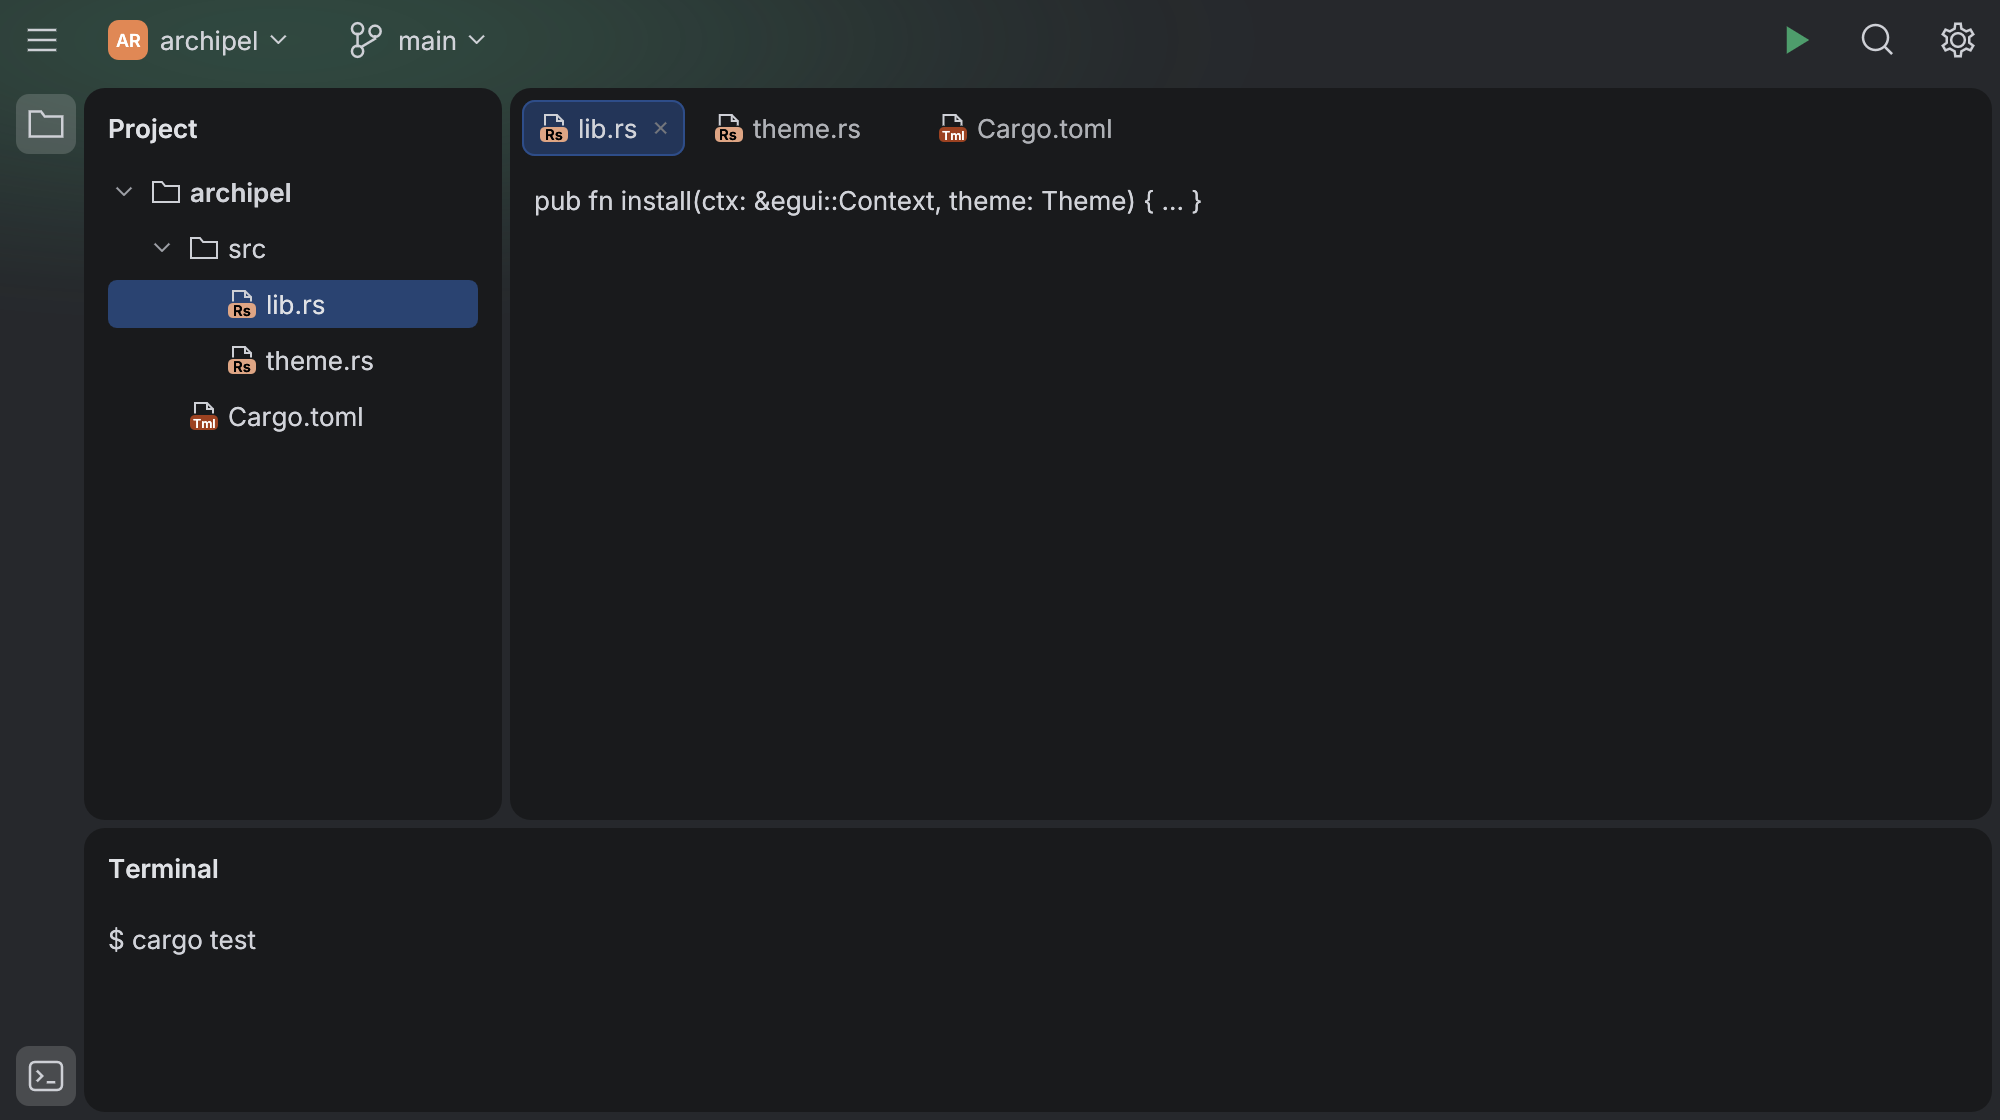
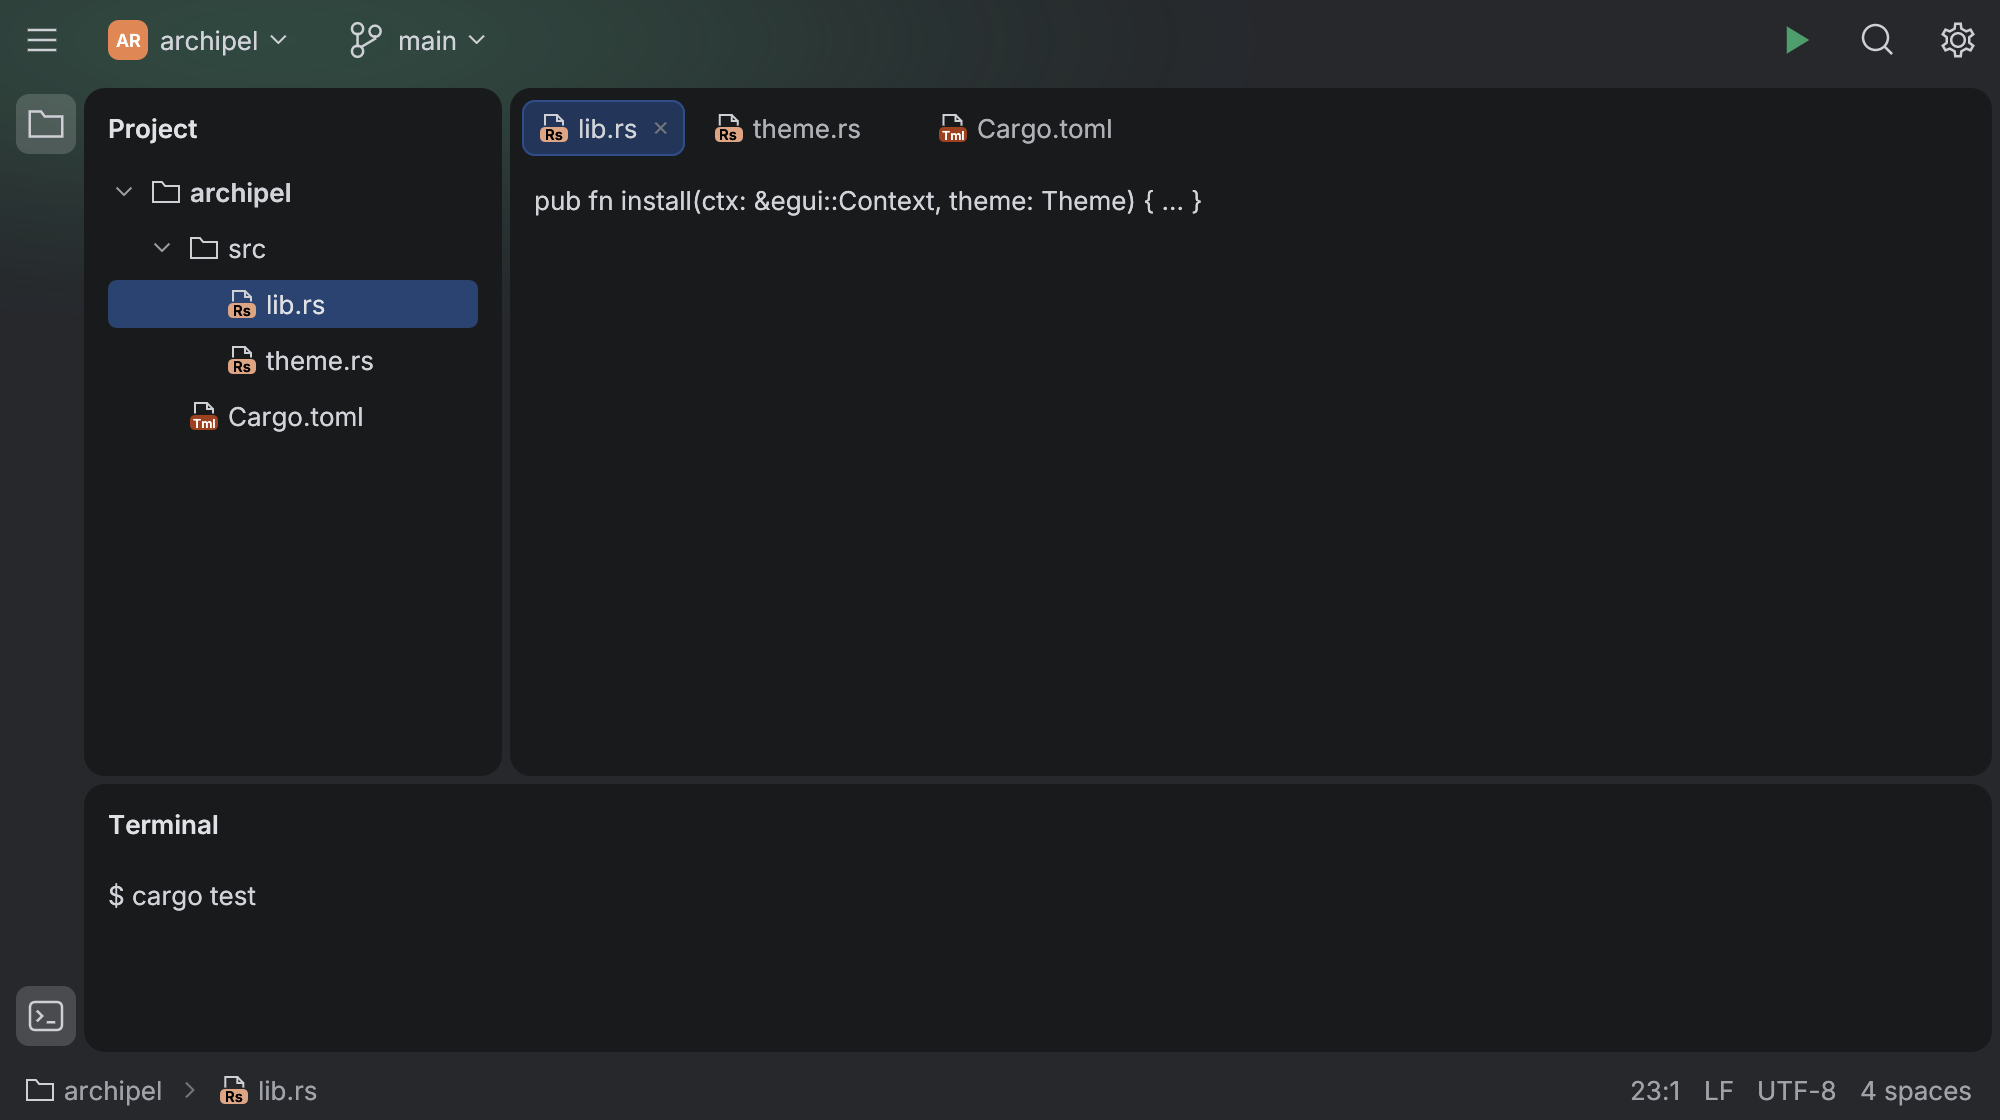
feat(status): Android Studio status bar, breadcrumbs and stripe tooltips
Measured on Android Studio:

- Status bar items are 21 pt hover pills with dimmed text that comes to full
  strength under the pointer; Workbench's status bar is 30 pt, 8 pt from the
  window edge.
- New Breadcrumbs: the navigation path at the status bar's left (also a
  settings page's location).
- Tooltip::immediate: stripe buttons name themselves without the usual delay.

Claude-Session: https://claude.ai/code/session_01CFSJRhkJs2RrB2frFQVn3u

diff --git a/crates/archipel-kit/src/components/status_bar.rs b/crates/archipel-kit/src/components/status_bar.rs
@@ -117,8 +117,7 @@ impl Widget for StatusBarItem<'_> {
         } else {
             Sense::hover()
         };
-        let (rect, response) =
-            ui.allocate_exact_size(vec2(width, size::CONTROL_HEIGHT_SMALL), sense);
+        let (rect, response) = ui.allocate_exact_size(vec2(width, size::STATUS_ITEM_HEIGHT), sense);
         crate::cursor::on_hover_action(&response);
         response.widget_info(|| WidgetInfo::labeled(WidgetType::Button, self.enabled, &self.text));
         if ui.is_rect_visible(rect) {
@@ -151,7 +150,17 @@ impl Widget for StatusBarItem<'_> {
             } else {
                 text
             };
-            common::text_left(painter, rect, x, galley, state.text(self.tone, &colors));
+            // As in Android Studio: dimmed at rest, full strength under the pointer.
+            let color = if self.tone == Tone::Default && state.enabled {
+                if state.hovered || state.pressed || state.focused {
+                    colors.text
+                } else {
+                    colors.text_secondary
+                }
+            } else {
+                state.text(self.tone, &colors)
+            };
+            common::text_left(painter, rect, x, galley, color);
             if self.chevron {
                 let chevron_rect = Rect::from_min_size(
                     pos2(
@@ -172,5 +181,105 @@ impl Widget for StatusBarItem<'_> {
             Tooltip::new(self.text.clone()).show_for(&response);
         }
         self.behaviours.attach(ui, response)
+    }
+}
+
+/// A path of places, like Android Studio's navigation path at the left of the status bar
+/// (`project › src › main.rs`) or a settings page's location. Each crumb is a flat button
+/// with an optional icon; dimmed chevrons separate them. Text is dimmed at rest and full
+/// strength under the pointer. Returns the index of the crumb clicked this frame.
+///
+/// ```
+/// # egui::__run_test_ui(|ui| {
+/// use archipel_kit::{Glyph, Icon, components::Breadcrumbs};
+///
+/// let clicked = Breadcrumbs::new()
+///     .crumb("archipel", Some(Glyph::Folder.into()))
+///     .crumb("main.rs", Some(Icon::for_file("main.rs")))
+///     .show(ui);
+/// # let _ = clicked;
+/// # });
+/// ```
+#[must_use = "show it with `.show(ui)`"]
+#[derive(Default)]
+pub struct Breadcrumbs {
+    crumbs: Vec<(String, Option<Icon>)>,
+}
+
+impl Breadcrumbs {
+    /// An empty path.
+    pub fn new() -> Self {
+        Self::default()
+    }
+
+    /// Appends a crumb reading `label`, with an optional icon.
+    pub fn crumb(mut self, label: impl Into<String>, icon: Option<Icon>) -> Self {
+        self.crumbs.push((label.into(), icon));
+        self
+    }
+
+    /// Draws the path in a row, [`size::STATUS_ITEM_HEIGHT`] high.
+    pub fn show(self, ui: &mut Ui) -> Option<usize> {
+        let colors = Theme::colors(ui.ctx());
+        let mut clicked = None;
+        ui.horizontal(|ui| {
+            ui.spacing_mut().item_spacing.x = size::BREADCRUMB_GAP;
+            let count = self.crumbs.len();
+            for (index, (label, icon)) in self.crumbs.iter().enumerate() {
+                let galley = common::galley(ui, label.as_str(), typography::body(typography::BODY));
+                let icon_width = if icon.is_some() {
+                    size::ICON + size::ICON_TEXT_GAP
+                } else {
+                    0.0
+                };
+                let width = 2.0 * size::BREADCRUMB_PADDING + icon_width + galley.size().x;
+                let (rect, response) =
+                    ui.allocate_exact_size(vec2(width, size::STATUS_ITEM_HEIGHT), Sense::click());
+                crate::cursor::on_hover_action(&response);
+                response.widget_info(|| WidgetInfo::labeled(WidgetType::Button, true, label));
+                if response.clicked() {
+                    clicked = Some(index);
+                }
+                let state = State::of(&response);
+                if ui.is_rect_visible(rect) {
+                    let painter = ui.painter();
+                    let fill = state.flat_fill(&colors);
+                    if fill != egui::Color32::TRANSPARENT {
+                        painter.rect_filled(rect, CornerRadius::same(radius::CONTROL), fill);
+                    }
+                    if response.has_focus() {
+                        common::focus_ring(painter, rect, radius::CONTROL, &colors);
+                    }
+                    let mut x = rect.left() + size::BREADCRUMB_PADDING;
+                    if let Some(icon) = *icon {
+                        let icon_rect = Rect::from_min_size(
+                            pos2(x, rect.center().y - size::ICON / 2.0),
+                            vec2(size::ICON, size::ICON),
+                        );
+                        icons::paint(painter, icon_rect, icon, state.icon(Tone::Icon, &colors));
+                        x += icon_width;
+                    }
+                    let color = if state.hovered || state.pressed || state.focused {
+                        colors.text
+                    } else {
+                        colors.text_secondary
+                    };
+                    common::text_left(painter, rect, x, galley, color);
+                }
+                if index + 1 < count {
+                    let (chevron, _) = ui.allocate_exact_size(
+                        vec2(size::ICON, size::STATUS_ITEM_HEIGHT),
+                        Sense::hover(),
+                    );
+                    icons::paint(
+                        ui.painter(),
+                        Rect::from_center_size(chevron.center(), vec2(size::ICON, size::ICON)),
+                        Glyph::ChevronRight,
+                        colors.text_placeholder,
+                    );
+                }
+            }
+        });
+        clicked
     }
 }

diff --git a/crates/archipel-kit/tests/workbench.rs b/crates/archipel-kit/tests/workbench.rs
@@ -173,7 +173,9 @@ fn stripe_buttons_open_and_close_tool_windows() {
 /// Islands UI: toolbar with project widget and project color, stripes, a project tree and an
 /// editor with tabs.
 fn ide(theme: Theme, gpu: bool) -> Harness<'static, WorkbenchState> {
-    use archipel_kit::components::{Avatar, IconButton, Tab, TabBar, ToolbarButton, WindowChrome};
+    use archipel_kit::components::{
+        Avatar, Breadcrumbs, IconButton, StatusBarItem, Tab, TabBar, ToolbarButton, WindowChrome,
+    };
     use archipel_kit::parts::Slot;
     let mut installed = false;
     let builder = Harness::builder().with_size(egui::vec2(1000.0, 560.0));
@@ -252,6 +254,18 @@ fn ide(theme: Theme, gpu: bool) -> Harness<'static, WorkbenchState> {
                 .padded(WorkbenchRegion::Bottom, true)
                 .icon(WorkbenchRegion::Bottom, Glyph::Terminal)
                 .center_padded(false)
+                .status(|ui| {
+                    let _ = Breadcrumbs::new()
+                        .crumb("archipel", Some(Glyph::Folder.into()))
+                        .crumb("lib.rs", Some(archipel_kit::Icon::for_file("lib.rs")))
+                        .show(ui);
+                    ui.with_layout(egui::Layout::right_to_left(egui::Align::Center), |ui| {
+                        ui.add(StatusBarItem::new("4 spaces"));
+                        ui.add(StatusBarItem::new("UTF-8"));
+                        ui.add(StatusBarItem::new("LF"));
+                        ui.add(StatusBarItem::new("23:1"));
+                    });
+                })
                 .show(ctx, |ui| {
                     ui.horizontal(|ui| {
                         ui.add_space(6.0);
@@ -287,4 +301,34 @@ fn ide_window_passes_both_theme_audits_and_snapshot() {
         ));
     }
     results.unwrap();
+}
+
+#[test]
+fn stripe_tooltips_show_at_once() {
+    let count = |h: &Harness<'_, WorkbenchState>| {
+        h.output()
+            .shapes
+            .iter()
+            .filter(|c| match &c.shape {
+                egui::Shape::Text(t) => t.galley.text() == "Messages",
+                _ => false,
+            })
+            .count()
+    };
+    let mut h = harness(Theme::dark(), 920.0, true, false);
+    let before = count(&h);
+    let button = h
+        .get_by_role_and_label(Role::Button, "Messages")
+        .rect()
+        .center();
+    h.hover_at(button);
+    // Two frames, far less than the usual tooltip delay: Android Studio's stripes name
+    // their buttons at once.
+    h.step();
+    h.step();
+    assert_eq!(
+        count(&h),
+        before + 1,
+        "the tooltip shows next to the panel title"
+    );
 }

diff --git a/crates/archipel-kit/src/components/overlay.rs b/crates/archipel-kit/src/components/overlay.rs
@@ -27,6 +27,7 @@ pub struct Tooltip {
     shortcut: Option<String>,
     hint: Option<String>,
     align: Option<egui::RectAlign>,
+    immediate: bool,
 }
 
 impl Tooltip {
@@ -37,7 +38,16 @@ impl Tooltip {
             shortcut: None,
             hint: None,
             align: None,
+            immediate: false,
         }
+    }
+
+    /// Shows the tooltip as soon as the widget is hovered, without the usual delay (about
+    /// half a second, as in Android Studio). Android Studio's tool window stripe buttons
+    /// name themselves at once.
+    pub fn immediate(mut self, immediate: bool) -> Self {
+        self.immediate = immediate;
+        self
     }
 
     /// Where the tooltip goes relative to its widget (default: below it). Tool window
@@ -98,7 +108,12 @@ impl Tooltip {
 
     /// Shows the tooltip for `response` when it is hovered long enough.
     pub fn show_for(&self, response: &Response) {
-        let mut tooltip = if response.enabled() {
+        let mut tooltip = if self.immediate {
+            let mut tooltip = egui::Tooltip::for_widget(response);
+            let dragging = response.ctx.dragged_id().is_some();
+            tooltip.popup = tooltip.popup.open(response.hovered() && !dragging);
+            tooltip
+        } else if response.enabled() {
             egui::Tooltip::for_enabled(response)
         } else {
             egui::Tooltip::for_disabled(response)

diff --git a/crates/archipel-kit/src/components/workbench.rs b/crates/archipel-kit/src/components/workbench.rs
@@ -194,11 +194,23 @@ impl<'a> Workbench<'a> {
         // The glow continues from the toolbar: anchor it to the window, not the islands.
         self.glow_anchor = Some(ctx.input(|i| i.viewport_rect()));
         if let Some(content) = self.status.take() {
+            // Android Studio's status bar: 30 pt on the frame, items 21 pt high.
             egui::TopBottomPanel::bottom(self.id.with("status"))
                 .show_separator_line(false)
-                .frame(crate::parts::Surface::Chrome.frame(ctx))
+                .exact_height(tokens::size::STATUS_BAR_HEIGHT)
+                .frame(
+                    egui::Frame::new()
+                        .fill(Theme::colors(ctx).frame)
+                        .inner_margin(egui::Margin::symmetric(
+                            tokens::size::STATUS_BAR_INSET as i8,
+                            0,
+                        )),
+                )
                 .show(ctx, |ui| {
-                    ui.horizontal(content);
+                    ui.horizontal_centered(|ui| {
+                        ui.spacing_mut().item_spacing.x = 0.0;
+                        content(ui);
+                    });
                 });
         }
         egui::CentralPanel::default()

diff --git a/crates/archipel-kit/src/tokens.rs b/crates/archipel-kit/src/tokens.rs
@@ -55,6 +55,16 @@ pub mod size {
     pub const SUBMENU_WIDTH: f32 = 200.0;
     /// Space inside a status bar item at each end.
     pub const STATUS_ITEM_PADDING: f32 = 6.0;
+    /// Height of a status bar item's hover pill (21 pt in Android Studio).
+    pub const STATUS_ITEM_HEIGHT: f32 = 21.0;
+    /// Space inside a breadcrumb at each end.
+    pub const BREADCRUMB_PADDING: f32 = 4.0;
+    /// Space between a breadcrumb and the chevron after it.
+    pub const BREADCRUMB_GAP: f32 = 2.0;
+    /// Height of the status bar on the window frame below the islands.
+    pub const STATUS_BAR_HEIGHT: f32 = 30.0;
+    /// Space between the window's left edge and the status bar's first item.
+    pub const STATUS_BAR_INSET: f32 = 8.0;
     /// Gap between a popup and what it is attached to (its own padding is
     /// [`popup::PADDING`](super::popup::PADDING)).
     pub const POPUP_PADDING: f32 = 4.0;

diff --git a/crates/archipel-kit/src/components/stripe.rs b/crates/archipel-kit/src/components/stripe.rs
@@ -151,7 +151,10 @@ impl ToolStripe {
             let icon = Rect::from_center_size(center, vec2(stripe::ICON, stripe::ICON));
             icons::paint(painter, icon, button.icon, Tone::Icon.color(&colors));
         }
-        let mut tooltip = Tooltip::new(button.label.clone()).align(egui::RectAlign::RIGHT);
+        // Stripe buttons name themselves at once, beside the button, as in Android Studio.
+        let mut tooltip = Tooltip::new(button.label.clone())
+            .align(egui::RectAlign::RIGHT)
+            .immediate(true);
         if let Some(shortcut) = &button.shortcut {
             tooltip = tooltip.shortcut(shortcut.clone());
         }

diff --git a/crates/archipel-kit/src/components/mod.rs b/crates/archipel-kit/src/components/mod.rs
@@ -58,7 +58,7 @@ pub use overlay::{Dialog, DialogAction, MenuHeader, MenuSeparator, Tooltip, Tool
 pub use progress::{ProgressBar, Spinner};
 pub use segmented::{SegmentedControl, Tab, TabBar, TabBarResponse};
 pub use split_pane::{Orientation, Side, SplitPane, SplitResponse};
-pub use status_bar::StatusBarItem;
+pub use status_bar::{Breadcrumbs, StatusBarItem};
 pub use stripe::{StripeButton, ToolStripe};
 pub use text_field::{TextField, TextFieldOutput};
 pub use toolbar::ToolbarButton;

diff --git a/docs/components/status-bar-item.md b/docs/components/status-bar-item.md
@@ -66,3 +66,26 @@ A `Button` named by its text, reporting disabled.
 
 Source: [`components/status_bar.rs`](../../crates/archipel-kit/src/components/status_bar.rs) ·
 Tests: [`tests/status_bar.rs`](../../crates/archipel-kit/tests/status_bar.rs)
+
+## Status bar and breadcrumbs (measured on Android Studio)
+
+The status bar is 30 pt on the window frame below the islands (`Workbench::status`), 8 pt from
+the window's left edge. Items are 21 pt hover pills; their text is dimmed (`text_secondary`)
+at rest and full strength under the pointer.
+
+`Breadcrumbs` is the navigation path at its left (`project › src › main.rs`): each crumb is a
+flat button (4 pt padding, optional icon, text), dimmed chevrons separate them, and `show`
+returns the index of the crumb clicked. It also serves as a settings page's location.
+
+```rust
+# egui::__run_test_ui(|ui| {
+use archipel_kit::{Glyph, Icon, components::{Breadcrumbs, StatusBarItem}};
+
+let clicked = Breadcrumbs::new()
+    .crumb("archipel", Some(Glyph::Folder.into()))
+    .crumb("main.rs", Some(Icon::for_file("main.rs")))
+    .show(ui);
+ui.add(StatusBarItem::new("UTF-8"));
+# let _ = clicked;
+# });
+```

diff --git a/docs/component-map.md b/docs/component-map.md
@@ -101,6 +101,15 @@ pointer and keyboard and recording the screen at 60 fps. The kit reproduces each
 | Disabled borders | `#33353B` / light `#DDDFE4` | `Colors::border_disabled` |
 | Fields and combo boxes | 28 pt, `#40434A` / `#D1D3D9` border; combo fill `#26282C` / white | `TextField`, `Dropdown` |
 
+### Tooltips and status bar
+
+| Situation | Android Studio | Kit |
+|---|---|---|
+| Tooltip delay | About 0.5 s on toolbar buttons; stripe buttons name themselves at once, beside the button | egui's 0.5 s; `Tooltip::immediate`, `Tooltip::align` |
+| Tooltip linger | Help tooltips stay about 0.5 s after the pointer leaves, so links in them can be reached | Not reproduced: kit tooltips have no links |
+| Status bar | 30 pt on the frame, 8 pt from the left; items 21 pt hover pills, text `text_secondary`, full strength on hover | `Workbench::status`, `StatusBarItem` |
+| Navigation path | Crumbs with icons, 4 pt padding, dimmed chevrons between | `Breadcrumbs` |
+
 ## Fixed invariants
 
 - Body font: Inter 13 pt. Code: the bundled mono font. Existing icon artwork is fixed.
